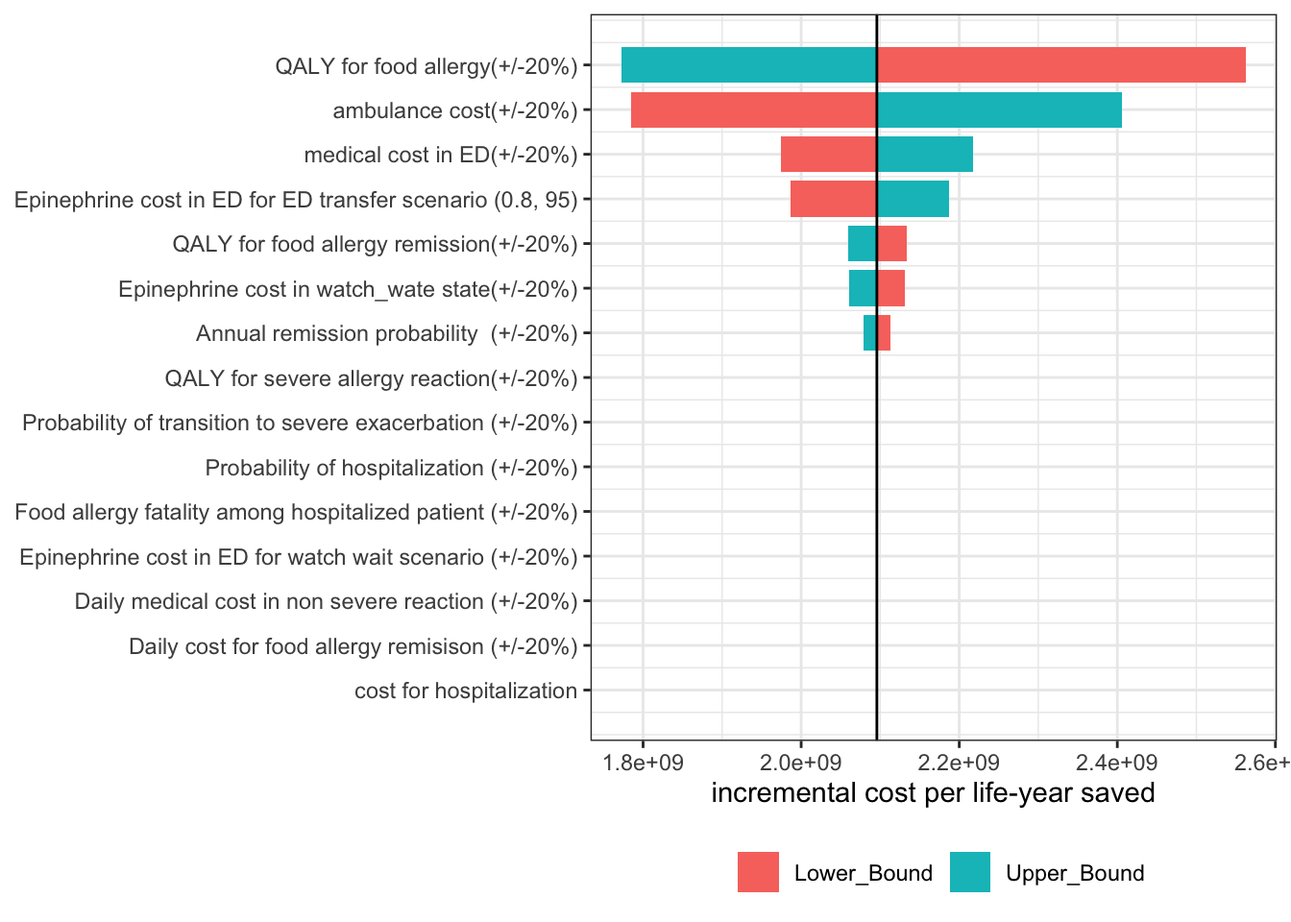
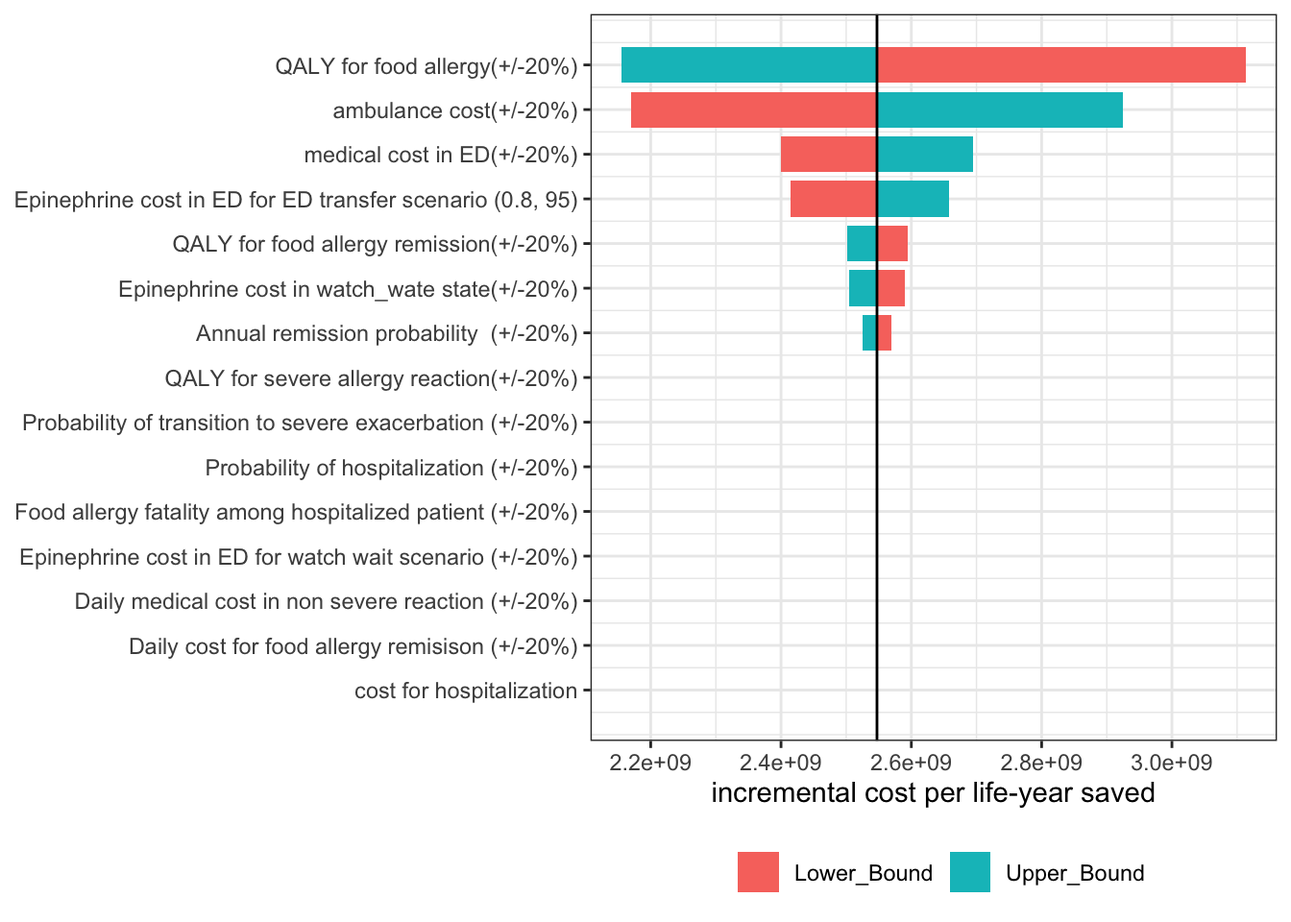
update with discount

diff --git a/Allergy_EAI.html b/Allergy_EAI.html
@@ -463,7 +463,7 @@ The following object is masked from 'package:purrr':
 <span id="cb9-285"><a href="#cb9-285" aria-hidden="true" tabindex="-1"></a>                <span class="at">init =</span> time0,</span>
 <span id="cb9-286"><a href="#cb9-286" aria-hidden="true" tabindex="-1"></a>                <span class="at">cycles =</span> <span class="dv">20</span><span class="sc">*</span><span class="dv">365</span>,</span>
 <span id="cb9-287"><a href="#cb9-287" aria-hidden="true" tabindex="-1"></a>                <span class="at">cost =</span> cost_total,</span>
-<span id="cb9-288"><a href="#cb9-288" aria-hidden="true" tabindex="-1"></a>                <span class="at">effect =</span> utility,</span>
+<span id="cb9-288"><a href="#cb9-288" aria-hidden="true" tabindex="-1"></a>                <span class="at">effect =</span> utility_total,</span>
 <span id="cb9-289"><a href="#cb9-289" aria-hidden="true" tabindex="-1"></a>                <span class="at">central_strategy =</span><span class="st">"ED_transfer"</span></span>
 <span id="cb9-290"><a href="#cb9-290" aria-hidden="true" tabindex="-1"></a>)</span>
 <span id="cb9-291"><a href="#cb9-291" aria-hidden="true" tabindex="-1"></a><span class="fu">summary</span>(allergy_mod_10)</span></code><button title="Copy to Clipboard" class="code-copy-button"><i class="bi"></i></button></pre></div>
@@ -509,7 +509,7 @@ watch_wait -&gt; ED_transfer
 Differences:
 
             Cost Diff. Effect Diff.       ICER       Ref.
-ED_transfer   1152.191 5.497625e-07 2095797192 watch_wait</code></pre>
+ED_transfer   1152.191 4.523212e-07 2547284109 watch_wait</code></pre>
 </div>
 </div>
 </section>
@@ -676,7 +676,7 @@ ED_transfer   1152.191 5.497625e-07 2095797192 watch_wait</code></pre>
 <span id="cb11-158"><a href="#cb11-158" aria-hidden="true" tabindex="-1"></a>  <span class="at">init =</span> time0,</span>
 <span id="cb11-159"><a href="#cb11-159" aria-hidden="true" tabindex="-1"></a>  <span class="at">cycles =</span> <span class="dv">20</span><span class="sc">*</span><span class="dv">365</span>,</span>
 <span id="cb11-160"><a href="#cb11-160" aria-hidden="true" tabindex="-1"></a>  <span class="at">cost =</span> cost_total,</span>
-<span id="cb11-161"><a href="#cb11-161" aria-hidden="true" tabindex="-1"></a>  <span class="at">effect =</span> utility,</span>
+<span id="cb11-161"><a href="#cb11-161" aria-hidden="true" tabindex="-1"></a>  <span class="at">effect =</span> utility_total,</span>
 <span id="cb11-162"><a href="#cb11-162" aria-hidden="true" tabindex="-1"></a>  <span class="at">central_strategy =</span><span class="st">"ED_transfer"</span></span>
 <span id="cb11-163"><a href="#cb11-163" aria-hidden="true" tabindex="-1"></a>)</span></code><button title="Copy to Clipboard" class="code-copy-button"><i class="bi"></i></button></pre></div>
 </div>
@@ -692,7 +692,7 @@ ED_transfer   1152.191 5.497625e-07 2095797192 watch_wait</code></pre>
 <span id="cb12-6"><a href="#cb12-6" aria-hidden="true" tabindex="-1"></a>  <span class="at">init =</span> time0,</span>
 <span id="cb12-7"><a href="#cb12-7" aria-hidden="true" tabindex="-1"></a>  <span class="at">cycles =</span> <span class="dv">20</span><span class="sc">*</span><span class="dv">365</span>,</span>
 <span id="cb12-8"><a href="#cb12-8" aria-hidden="true" tabindex="-1"></a>  <span class="at">cost =</span> cost_total,</span>
-<span id="cb12-9"><a href="#cb12-9" aria-hidden="true" tabindex="-1"></a>  <span class="at">effect =</span> utility,</span>
+<span id="cb12-9"><a href="#cb12-9" aria-hidden="true" tabindex="-1"></a>  <span class="at">effect =</span> utility_total,</span>
 <span id="cb12-10"><a href="#cb12-10" aria-hidden="true" tabindex="-1"></a>  <span class="at">central_strategy =</span><span class="st">"ED_transfer"</span></span>
 <span id="cb12-11"><a href="#cb12-11" aria-hidden="true" tabindex="-1"></a>)</span>
 <span id="cb12-12"><a href="#cb12-12" aria-hidden="true" tabindex="-1"></a><span class="co">#run model for X500 mortality in wath and wait </span></span>
@@ -703,7 +703,7 @@ ED_transfer   1152.191 5.497625e-07 2095797192 watch_wait</code></pre>
 <span id="cb12-17"><a href="#cb12-17" aria-hidden="true" tabindex="-1"></a>  <span class="at">init =</span> time0,</span>
 <span id="cb12-18"><a href="#cb12-18" aria-hidden="true" tabindex="-1"></a>  <span class="at">cycles =</span> <span class="dv">20</span><span class="sc">*</span><span class="dv">365</span>,</span>
 <span id="cb12-19"><a href="#cb12-19" aria-hidden="true" tabindex="-1"></a>  <span class="at">cost =</span> cost_total,</span>
-<span id="cb12-20"><a href="#cb12-20" aria-hidden="true" tabindex="-1"></a>  <span class="at">effect =</span> utility,</span>
+<span id="cb12-20"><a href="#cb12-20" aria-hidden="true" tabindex="-1"></a>  <span class="at">effect =</span> utility_total,</span>
 <span id="cb12-21"><a href="#cb12-21" aria-hidden="true" tabindex="-1"></a>  <span class="at">central_strategy =</span><span class="st">"ED_transfer"</span></span>
 <span id="cb12-22"><a href="#cb12-22" aria-hidden="true" tabindex="-1"></a>)</span>
 <span id="cb12-23"><a href="#cb12-23" aria-hidden="true" tabindex="-1"></a><span class="co">#run model for X1000 mortality in wath and wait </span></span>
@@ -714,7 +714,7 @@ ED_transfer   1152.191 5.497625e-07 2095797192 watch_wait</code></pre>
 <span id="cb12-28"><a href="#cb12-28" aria-hidden="true" tabindex="-1"></a>  <span class="at">init =</span> time0,</span>
 <span id="cb12-29"><a href="#cb12-29" aria-hidden="true" tabindex="-1"></a>  <span class="at">cycles =</span> <span class="dv">20</span><span class="sc">*</span><span class="dv">365</span>,</span>
 <span id="cb12-30"><a href="#cb12-30" aria-hidden="true" tabindex="-1"></a>  <span class="at">cost =</span> cost_total,</span>
-<span id="cb12-31"><a href="#cb12-31" aria-hidden="true" tabindex="-1"></a>  <span class="at">effect =</span> utility,</span>
+<span id="cb12-31"><a href="#cb12-31" aria-hidden="true" tabindex="-1"></a>  <span class="at">effect =</span> utility_total,</span>
 <span id="cb12-32"><a href="#cb12-32" aria-hidden="true" tabindex="-1"></a>  <span class="at">central_strategy =</span><span class="st">"ED_transfer"</span></span>
 <span id="cb12-33"><a href="#cb12-33" aria-hidden="true" tabindex="-1"></a>)</span></code><button title="Copy to Clipboard" class="code-copy-button"><i class="bi"></i></button></pre></div>
 </div>
@@ -765,7 +765,7 @@ watch_wait -&gt; ED_transfer
 Differences:
 
             Cost Diff. Effect Diff.       ICER       Ref.
-ED_transfer   1152.191 5.497625e-07 2095797192 watch_wait</code></pre>
+ED_transfer   1152.191 4.523212e-07 2547284109 watch_wait</code></pre>
 </div>
 <div class="sourceCode cell-code" id="cb15"><pre class="sourceCode r code-with-copy"><code class="sourceCode r"><span id="cb15-1"><a href="#cb15-1" aria-hidden="true" tabindex="-1"></a><span class="fu">summary</span>(allergy_mod_100)</span></code><button title="Copy to Clipboard" class="code-copy-button"><i class="bi"></i></button></pre></div>
 <div class="cell-output cell-output-stdout">
@@ -810,7 +810,7 @@ watch_wait -&gt; ED_transfer
 Differences:
 
             Cost Diff. Effect Diff.      ICER       Ref.
-ED_transfer   1152.197 6.047929e-06 190510958 watch_wait</code></pre>
+ED_transfer   1152.197 4.975979e-06 231551764 watch_wait</code></pre>
 </div>
 <div class="sourceCode cell-code" id="cb17"><pre class="sourceCode r code-with-copy"><code class="sourceCode r"><span id="cb17-1"><a href="#cb17-1" aria-hidden="true" tabindex="-1"></a><span class="fu">summary</span>(allergy_mod_500)</span></code><button title="Copy to Clipboard" class="code-copy-button"><i class="bi"></i></button></pre></div>
 <div class="cell-output cell-output-stdout">
@@ -855,7 +855,7 @@ watch_wait -&gt; ED_transfer
 Differences:
 
             Cost Diff. Effect Diff.     ICER       Ref.
-ED_transfer   1152.223 3.049614e-05 37782600 watch_wait</code></pre>
+ED_transfer   1152.223 2.509093e-05 45921912 watch_wait</code></pre>
 </div>
 <div class="sourceCode cell-code" id="cb19"><pre class="sourceCode r code-with-copy"><code class="sourceCode r"><span id="cb19-1"><a href="#cb19-1" aria-hidden="true" tabindex="-1"></a><span class="fu">summary</span>(allergy_mod_1000)</span></code><button title="Copy to Clipboard" class="code-copy-button"><i class="bi"></i></button></pre></div>
 <div class="cell-output cell-output-stdout">
@@ -900,7 +900,7 @@ watch_wait -&gt; ED_transfer
 Differences:
 
             Cost Diff. Effect Diff.     ICER       Ref.
-ED_transfer   1152.257  6.10838e-05 18863544 watch_wait</code></pre>
+ED_transfer   1152.257 5.025716e-05 22927220 watch_wait</code></pre>
 </div>
 <div class="sourceCode cell-code" id="cb21"><pre class="sourceCode r code-with-copy"><code class="sourceCode r"><span id="cb21-1"><a href="#cb21-1" aria-hidden="true" tabindex="-1"></a><span class="fu">summary</span>(allergy_mod_10_societal)</span></code><button title="Copy to Clipboard" class="code-copy-button"><i class="bi"></i></button></pre></div>
 <div class="cell-output cell-output-stdout">
@@ -948,7 +948,7 @@ watch_wait -&gt; ED_transfer
 Differences:
 
             Cost Diff. Effect Diff.       ICER       Ref.
-ED_transfer   1334.201 5.497625e-07 2426868909 watch_wait</code></pre>
+ED_transfer   1334.201 4.523212e-07 2949676919 watch_wait</code></pre>
 </div>
 <div class="sourceCode cell-code" id="cb23"><pre class="sourceCode r code-with-copy"><code class="sourceCode r"><span id="cb23-1"><a href="#cb23-1" aria-hidden="true" tabindex="-1"></a>value_10<span class="ot">&lt;-</span><span class="fu">get_values</span>(allergy_mod_10)</span>
 <span id="cb23-2"><a href="#cb23-2" aria-hidden="true" tabindex="-1"></a>value_100<span class="ot">&lt;-</span><span class="fu">get_values</span>(allergy_mod_100)</span>
@@ -1036,38 +1036,38 @@ the `.groups` argument.</code></pre>
 </div>
 <div class="sourceCode cell-code" id="cb36"><pre class="sourceCode r code-with-copy"><code class="sourceCode r"><span id="cb36-1"><a href="#cb36-1" aria-hidden="true" tabindex="-1"></a>value_table_10<span class="ot">&lt;-</span>value_summary_10 <span class="sc">%&gt;%</span> </span>
 <span id="cb36-2"><a href="#cb36-2" aria-hidden="true" tabindex="-1"></a>  <span class="fu">mutate</span>(<span class="at">cost_diff =</span> cost_total<span class="sc">-</span> <span class="fu">lag</span>(cost_total)) <span class="sc">%&gt;%</span></span>
-<span id="cb36-3"><a href="#cb36-3" aria-hidden="true" tabindex="-1"></a>    <span class="fu">mutate</span>(<span class="at">Qaly_diff =</span> utility<span class="sc">-</span> <span class="fu">lag</span>(utility)) <span class="sc">%&gt;%</span></span>
+<span id="cb36-3"><a href="#cb36-3" aria-hidden="true" tabindex="-1"></a>    <span class="fu">mutate</span>(<span class="at">Qaly_diff =</span> utility_total<span class="sc">-</span> <span class="fu">lag</span>(utility_total)) <span class="sc">%&gt;%</span></span>
 <span id="cb36-4"><a href="#cb36-4" aria-hidden="true" tabindex="-1"></a>      <span class="fu">mutate</span>(<span class="at">cost_per_life_saved=</span> cost_diff<span class="sc">/</span>Qaly_diff) <span class="sc">%&gt;%</span></span>
 <span id="cb36-5"><a href="#cb36-5" aria-hidden="true" tabindex="-1"></a>        <span class="fu">mutate</span>(<span class="at">scenario =</span><span class="st">"10 times mortality in watch and wait"</span>) <span class="sc">%&gt;%</span></span>
-<span id="cb36-6"><a href="#cb36-6" aria-hidden="true" tabindex="-1"></a>          <span class="fu">select</span>(scenario, .strategy_names, cost_total,utility,cost_diff,Qaly_diff,cost_per_life_saved) </span>
+<span id="cb36-6"><a href="#cb36-6" aria-hidden="true" tabindex="-1"></a>          <span class="fu">select</span>(scenario, .strategy_names, cost_total,utility_total,cost_diff,Qaly_diff,cost_per_life_saved) </span>
 <span id="cb36-7"><a href="#cb36-7" aria-hidden="true" tabindex="-1"></a></span>
 <span id="cb36-8"><a href="#cb36-8" aria-hidden="true" tabindex="-1"></a>value_table_100<span class="ot">&lt;-</span>value_summary_100 <span class="sc">%&gt;%</span> </span>
 <span id="cb36-9"><a href="#cb36-9" aria-hidden="true" tabindex="-1"></a>  <span class="fu">mutate</span>(<span class="at">cost_diff =</span> cost_total<span class="sc">-</span> <span class="fu">lag</span>(cost_total)) <span class="sc">%&gt;%</span></span>
-<span id="cb36-10"><a href="#cb36-10" aria-hidden="true" tabindex="-1"></a>  <span class="fu">mutate</span>(<span class="at">Qaly_diff =</span> utility<span class="sc">-</span> <span class="fu">lag</span>(utility)) <span class="sc">%&gt;%</span></span>
+<span id="cb36-10"><a href="#cb36-10" aria-hidden="true" tabindex="-1"></a>  <span class="fu">mutate</span>(<span class="at">Qaly_diff =</span> utility_total<span class="sc">-</span> <span class="fu">lag</span>(utility_total)) <span class="sc">%&gt;%</span></span>
 <span id="cb36-11"><a href="#cb36-11" aria-hidden="true" tabindex="-1"></a>  <span class="fu">mutate</span>(<span class="at">cost_per_life_saved=</span> cost_diff<span class="sc">/</span>Qaly_diff) <span class="sc">%&gt;%</span></span>
 <span id="cb36-12"><a href="#cb36-12" aria-hidden="true" tabindex="-1"></a>  <span class="fu">mutate</span>(<span class="at">scenario =</span><span class="st">"100 times mortality in watch and wait"</span>) <span class="sc">%&gt;%</span></span>
-<span id="cb36-13"><a href="#cb36-13" aria-hidden="true" tabindex="-1"></a>  <span class="fu">select</span>(scenario, .strategy_names, cost_total,utility,cost_diff,Qaly_diff,cost_per_life_saved) </span>
+<span id="cb36-13"><a href="#cb36-13" aria-hidden="true" tabindex="-1"></a>  <span class="fu">select</span>(scenario, .strategy_names, cost_total,utility_total,cost_diff,Qaly_diff,cost_per_life_saved) </span>
 <span id="cb36-14"><a href="#cb36-14" aria-hidden="true" tabindex="-1"></a></span>
 <span id="cb36-15"><a href="#cb36-15" aria-hidden="true" tabindex="-1"></a>value_table_500<span class="ot">&lt;-</span>value_summary_500 <span class="sc">%&gt;%</span> </span>
 <span id="cb36-16"><a href="#cb36-16" aria-hidden="true" tabindex="-1"></a>  <span class="fu">mutate</span>(<span class="at">cost_diff =</span> cost_total<span class="sc">-</span> <span class="fu">lag</span>(cost_total)) <span class="sc">%&gt;%</span></span>
-<span id="cb36-17"><a href="#cb36-17" aria-hidden="true" tabindex="-1"></a>  <span class="fu">mutate</span>(<span class="at">Qaly_diff =</span> utility<span class="sc">-</span> <span class="fu">lag</span>(utility)) <span class="sc">%&gt;%</span></span>
+<span id="cb36-17"><a href="#cb36-17" aria-hidden="true" tabindex="-1"></a>  <span class="fu">mutate</span>(<span class="at">Qaly_diff =</span> utility_total<span class="sc">-</span> <span class="fu">lag</span>(utility_total)) <span class="sc">%&gt;%</span></span>
 <span id="cb36-18"><a href="#cb36-18" aria-hidden="true" tabindex="-1"></a>  <span class="fu">mutate</span>(<span class="at">cost_per_life_saved=</span> cost_diff<span class="sc">/</span>Qaly_diff) <span class="sc">%&gt;%</span></span>
 <span id="cb36-19"><a href="#cb36-19" aria-hidden="true" tabindex="-1"></a>  <span class="fu">mutate</span>(<span class="at">scenario =</span><span class="st">"500 times mortality in watch and wait"</span>) <span class="sc">%&gt;%</span></span>
-<span id="cb36-20"><a href="#cb36-20" aria-hidden="true" tabindex="-1"></a>  <span class="fu">select</span>(scenario, .strategy_names, cost_total,utility,cost_diff,Qaly_diff,cost_per_life_saved)</span>
+<span id="cb36-20"><a href="#cb36-20" aria-hidden="true" tabindex="-1"></a>  <span class="fu">select</span>(scenario, .strategy_names, cost_total,utility_total,cost_diff,Qaly_diff,cost_per_life_saved)</span>
 <span id="cb36-21"><a href="#cb36-21" aria-hidden="true" tabindex="-1"></a></span>
 <span id="cb36-22"><a href="#cb36-22" aria-hidden="true" tabindex="-1"></a>value_table_1000<span class="ot">&lt;-</span>value_summary_1000 <span class="sc">%&gt;%</span> </span>
 <span id="cb36-23"><a href="#cb36-23" aria-hidden="true" tabindex="-1"></a>  <span class="fu">mutate</span>(<span class="at">cost_diff =</span> cost_total<span class="sc">-</span> <span class="fu">lag</span>(cost_total)) <span class="sc">%&gt;%</span></span>
-<span id="cb36-24"><a href="#cb36-24" aria-hidden="true" tabindex="-1"></a>  <span class="fu">mutate</span>(<span class="at">Qaly_diff =</span> utility<span class="sc">-</span> <span class="fu">lag</span>(utility)) <span class="sc">%&gt;%</span></span>
+<span id="cb36-24"><a href="#cb36-24" aria-hidden="true" tabindex="-1"></a>  <span class="fu">mutate</span>(<span class="at">Qaly_diff =</span> utility_total<span class="sc">-</span> <span class="fu">lag</span>(utility_total)) <span class="sc">%&gt;%</span></span>
 <span id="cb36-25"><a href="#cb36-25" aria-hidden="true" tabindex="-1"></a>  <span class="fu">mutate</span>(<span class="at">cost_per_life_saved=</span> cost_diff<span class="sc">/</span>Qaly_diff) <span class="sc">%&gt;%</span></span>
 <span id="cb36-26"><a href="#cb36-26" aria-hidden="true" tabindex="-1"></a>  <span class="fu">mutate</span>(<span class="at">scenario =</span><span class="st">"1000 times mortality in watch and wait"</span>) <span class="sc">%&gt;%</span></span>
-<span id="cb36-27"><a href="#cb36-27" aria-hidden="true" tabindex="-1"></a>  <span class="fu">select</span>(scenario, .strategy_names, cost_total,utility,cost_diff,Qaly_diff,cost_per_life_saved)</span>
+<span id="cb36-27"><a href="#cb36-27" aria-hidden="true" tabindex="-1"></a>  <span class="fu">select</span>(scenario, .strategy_names, cost_total,utility_total,cost_diff,Qaly_diff,cost_per_life_saved)</span>
 <span id="cb36-28"><a href="#cb36-28" aria-hidden="true" tabindex="-1"></a></span>
 <span id="cb36-29"><a href="#cb36-29" aria-hidden="true" tabindex="-1"></a>value_table_10_societal<span class="ot">&lt;-</span>value_summary_10_societal <span class="sc">%&gt;%</span> </span>
 <span id="cb36-30"><a href="#cb36-30" aria-hidden="true" tabindex="-1"></a>  <span class="fu">mutate</span>(<span class="at">cost_diff =</span> cost_total<span class="sc">-</span> <span class="fu">lag</span>(cost_total)) <span class="sc">%&gt;%</span></span>
-<span id="cb36-31"><a href="#cb36-31" aria-hidden="true" tabindex="-1"></a>  <span class="fu">mutate</span>(<span class="at">Qaly_diff =</span> utility<span class="sc">-</span> <span class="fu">lag</span>(utility)) <span class="sc">%&gt;%</span></span>
+<span id="cb36-31"><a href="#cb36-31" aria-hidden="true" tabindex="-1"></a>  <span class="fu">mutate</span>(<span class="at">Qaly_diff =</span> utility_total<span class="sc">-</span> <span class="fu">lag</span>(utility_total)) <span class="sc">%&gt;%</span></span>
 <span id="cb36-32"><a href="#cb36-32" aria-hidden="true" tabindex="-1"></a>  <span class="fu">mutate</span>(<span class="at">cost_per_life_saved=</span> cost_diff<span class="sc">/</span>Qaly_diff) <span class="sc">%&gt;%</span></span>
 <span id="cb36-33"><a href="#cb36-33" aria-hidden="true" tabindex="-1"></a>  <span class="fu">mutate</span>(<span class="at">scenario =</span><span class="st">"sociatal_10 times mortality in watch and wait"</span>) <span class="sc">%&gt;%</span></span>
-<span id="cb36-34"><a href="#cb36-34" aria-hidden="true" tabindex="-1"></a>  <span class="fu">select</span>(scenario, .strategy_names, cost_total,utility,cost_diff,Qaly_diff,cost_per_life_saved)</span>
+<span id="cb36-34"><a href="#cb36-34" aria-hidden="true" tabindex="-1"></a>  <span class="fu">select</span>(scenario, .strategy_names, cost_total,utility_total,cost_diff,Qaly_diff,cost_per_life_saved)</span>
 <span id="cb36-35"><a href="#cb36-35" aria-hidden="true" tabindex="-1"></a></span>
 <span id="cb36-36"><a href="#cb36-36" aria-hidden="true" tabindex="-1"></a></span>
 <span id="cb36-37"><a href="#cb36-37" aria-hidden="true" tabindex="-1"></a><span class="co">#calculate the cost per year life saved in base allergy model</span></span>
@@ -1087,7 +1087,7 @@ the `.groups` argument.</code></pre>
 <span id="cb36-51"><a href="#cb36-51" aria-hidden="true" tabindex="-1"></a></span>
 <span id="cb36-52"><a href="#cb36-52" aria-hidden="true" tabindex="-1"></a>final_Table<span class="ot">&lt;-</span>final_Table <span class="sc">%&gt;%</span> <span class="fu">rename</span>(</span>
 <span id="cb36-53"><a href="#cb36-53" aria-hidden="true" tabindex="-1"></a>  <span class="st">"strategy_name"</span><span class="ot">=</span> <span class="st">".strategy_names"</span>,</span>
-<span id="cb36-54"><a href="#cb36-54" aria-hidden="true" tabindex="-1"></a>  <span class="st">"QALYs_total"</span> <span class="ot">=</span> <span class="st">"utility"</span>,</span>
+<span id="cb36-54"><a href="#cb36-54" aria-hidden="true" tabindex="-1"></a>  <span class="st">"QALYs_total"</span> <span class="ot">=</span> <span class="st">"utility_total"</span>,</span>
 <span id="cb36-55"><a href="#cb36-55" aria-hidden="true" tabindex="-1"></a>  <span class="st">"increment_cost"</span> <span class="ot">=</span> <span class="st">"cost_diff"</span>,</span>
 <span id="cb36-56"><a href="#cb36-56" aria-hidden="true" tabindex="-1"></a>  <span class="st">"increment_Qaly"</span> <span class="ot">=</span> <span class="st">"Qaly_diff"</span>,</span>
 <span id="cb36-57"><a href="#cb36-57" aria-hidden="true" tabindex="-1"></a>  <span class="st">"increment_cost_per_life_saved"</span> <span class="ot">=</span> <span class="st">"cost_per_life_saved"</span></span>
@@ -1096,7 +1096,7 @@ the `.groups` argument.</code></pre>
 <span id="cb36-60"><a href="#cb36-60" aria-hidden="true" tabindex="-1"></a></span>
 <span id="cb36-61"><a href="#cb36-61" aria-hidden="true" tabindex="-1"></a>final_Table_societal<span class="ot">&lt;-</span>final_Table_societal <span class="sc">%&gt;%</span> <span class="fu">rename</span>(</span>
 <span id="cb36-62"><a href="#cb36-62" aria-hidden="true" tabindex="-1"></a>  <span class="st">"strategy_name"</span><span class="ot">=</span> <span class="st">".strategy_names"</span>,</span>
-<span id="cb36-63"><a href="#cb36-63" aria-hidden="true" tabindex="-1"></a>  <span class="st">"QALYs_total"</span> <span class="ot">=</span> <span class="st">"utility"</span>,</span>
+<span id="cb36-63"><a href="#cb36-63" aria-hidden="true" tabindex="-1"></a>  <span class="st">"QALYs_total"</span> <span class="ot">=</span> <span class="st">"utility_total"</span>,</span>
 <span id="cb36-64"><a href="#cb36-64" aria-hidden="true" tabindex="-1"></a>  <span class="st">"increment_cost"</span> <span class="ot">=</span> <span class="st">"cost_diff"</span>,</span>
 <span id="cb36-65"><a href="#cb36-65" aria-hidden="true" tabindex="-1"></a>  <span class="st">"increment_Qaly"</span> <span class="ot">=</span> <span class="st">"Qaly_diff"</span>,</span>
 <span id="cb36-66"><a href="#cb36-66" aria-hidden="true" tabindex="-1"></a>  <span class="st">"increment_cost_per_life_saved"</span> <span class="ot">=</span> <span class="st">"cost_per_life_saved"</span></span>
@@ -1119,23 +1119,23 @@ the `.groups` argument.</code></pre>
 7 1000 times mortality in watch and wait   ED_transfer 20080.1623648999
 8 1000 times mortality in watch and wait    watch_wait 18927.9053731048
        QALYs_total    increment_cost        increment_Qaly
-1  18.420093147008         reference             reference
-2 18.4200925972456 -1152.19065731904 -5.49762479096216e-07
-3  18.420093147008         reference             reference
-4 18.4200870990794 -1152.19668232554 -6.04792865743775e-06
-5  18.420093147008         reference             reference
-6  18.420062650868 -1152.22347319096 -3.04961399990589e-05
-7  18.420093147008         reference             reference
-8 18.4200320632058 -1152.25699179513 -6.10838021835036e-05
+1 15.8975876382084         reference             reference
+2 15.8975871858872 -1152.19065731904  -4.5232122047878e-07
+3 15.8975876382084         reference             reference
+4 15.8975826622295 -1152.19668232554 -4.97597886095491e-06
+5 15.8975876382084         reference             reference
+6 15.8975625472788 -1152.22347319096  -2.5090929632654e-05
+7 15.8975876382084         reference             reference
+8 15.8975373810467 -1152.25699179513 -5.02571616785019e-05
   increment_cost_per_life_saved
 1                     reference
-2              2095797187.20198
+2              2547284109.50839
 3                     reference
-4              190510957.980393
+4              231551763.888407
 5                     reference
-6              37782600.4611245
+6              45921912.4225443
 7                     reference
-8              18863544.0265096</code></pre>
+8               22927219.789414</code></pre>
 </div>
 <div class="sourceCode cell-code" id="cb39"><pre class="sourceCode r code-with-copy"><code class="sourceCode r"><span id="cb39-1"><a href="#cb39-1" aria-hidden="true" tabindex="-1"></a><span class="fu">print</span>(<span class="fu">as.data.frame</span> (final_Table_societal))</span></code><button title="Copy to Clipboard" class="code-copy-button"><i class="bi"></i></button></pre></div>
 <div class="cell-output cell-output-stdout">
@@ -1144,16 +1144,16 @@ the `.groups` argument.</code></pre>
 2          10 times mortality in watch and wait    watch_wait 18927.9717075809
 3 sociatal_10 times mortality in watch and wait   ED_transfer  157540.66704348
 4 sociatal_10 times mortality in watch and wait    watch_wait 156206.465578724
-       QALYs_total    increment_cost        increment_Qaly
-1  18.420093147008         reference             reference
-2 18.4200925972456 -1152.19065731904 -5.49762479096216e-07
-3  18.420093147008         reference             reference
-4 18.4200925972456 -1334.20146475636 -5.49762479096216e-07
+       QALYs_total    increment_cost       increment_Qaly
+1 15.8975876382084         reference            reference
+2 15.8975871858872 -1152.19065731904 -4.5232122047878e-07
+3 15.8975876382084         reference            reference
+4 15.8975871858872 -1334.20146475636 -4.5232122047878e-07
   increment_cost_per_life_saved
 1                     reference
-2              2095797187.20198
+2              2547284109.50839
 3                     reference
-4              2426868903.36665</code></pre>
+4               2949676920.6276</code></pre>
 </div>
 </div>
 </section>
@@ -1279,21 +1279,21 @@ the `.groups` argument.</code></pre>
 # A tibble: 15 × 5
    .par_names            Lower_Bound Upper_Bound UL_Difference parameter        
    &lt;chr&gt;                       &lt;dbl&gt;       &lt;dbl&gt;         &lt;dbl&gt; &lt;chr&gt;            
- 1 ambulance_cost_ED_ED  1785214241. 2406380144.  621165903.   ambulance cost(+…
- 2 medical_cost_ED_ED    1974567290. 2217027094.  242459804.   medical cost in …
- 3 medical_cost_hospital 2095797189. 2095797196.          6.68 cost for hospita…
- 4 medical_cost_ns       2095796988. 2095797396.        408.   Daily medical co…
- 5 p_ns_ar               2112745877. 2078730274.   34015604.   Annual remission…
- 6 p_severe              2095709695. 2095886687.     176992.   Probability of t…
- 7 p_sh                  2095725891. 2095868185.     142294.   Probability of h…
- 8 p_sh_faf              2095727777. 2095866138.     138360.   Food allergy fat…
- 9 remission_cost_all    2095797184. 2095797201.         16.5  Daily cost for f…
-10 treatment_cost_ED     1986559963. 2187147624.  200587661.   Epinephrine cost…
-11 treatment_cost_ww     2130591272. 2061003113.   69588158.   Epinephrine cost…
-12 treatment_cost_ww_ED  2095844890. 2095749494.      95396.   Epinephrine cost…
-13 utility_fa            2562518239. 1772893448.  789624791.   QALY for food al…
-14 utility_far           2133822627. 2059103281.   74719346.   QALY for food al…
-15 utility_sr            2095893412. 2095700959.     192453.   QALY for severe …
+ 1 ambulance_cost_ED_ED  2169793853. 2924774364.  754980510.   ambulance cost(+…
+ 2 medical_cost_ED_ED    2399938266. 2694629951.  294691685.   medical cost in …
+ 3 medical_cost_hospital 2547284104. 2547284113.          8.12 cost for hospita…
+ 4 medical_cost_ns       2547283861. 2547284356.        496.   Daily medical co…
+ 5 p_ns_ar               2569860549. 2524578417.   45282132.   Annual remission…
+ 6 p_severe              2547186214. 2547384309.     198095.   Probability of t…
+ 7 p_sh                  2547206052. 2547361792.     155740.   Probability of h…
+ 8 p_sh_faf              2547208431. 2547359259.     150829.   Food allergy fat…
+ 9 remission_cost_all    2547284099. 2547284119.         20.0  Daily cost for f…
+10 treatment_cost_ED     2414514459. 2658313698.  243799239.   Epinephrine cost…
+11 treatment_cost_ww     2589573699. 2504994518.   84579181.   Epinephrine cost…
+12 treatment_cost_ww_ED  2547342082. 2547226135.     115947.   Epinephrine cost…
+13 utility_fa            3113294896. 2155419336.  957875560.   QALY for food al…
+14 utility_far           2594371289. 2501875715.   92495574.   QALY for food al…
+15 utility_sr            2547400860. 2547167384.     233476.   QALY for severe …
 
 [[2]]</code></pre>
 </div>
